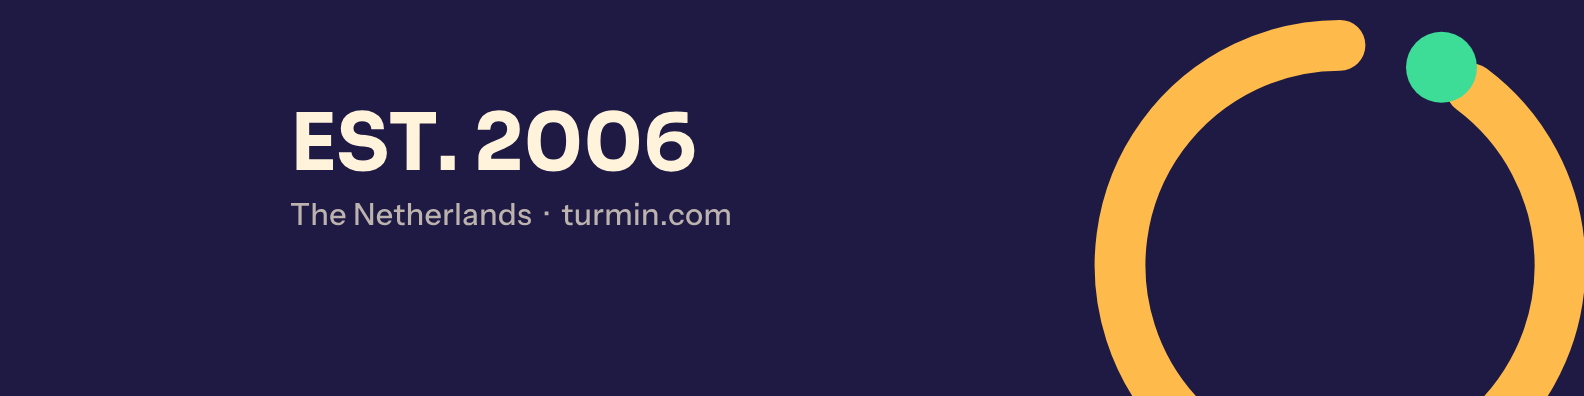
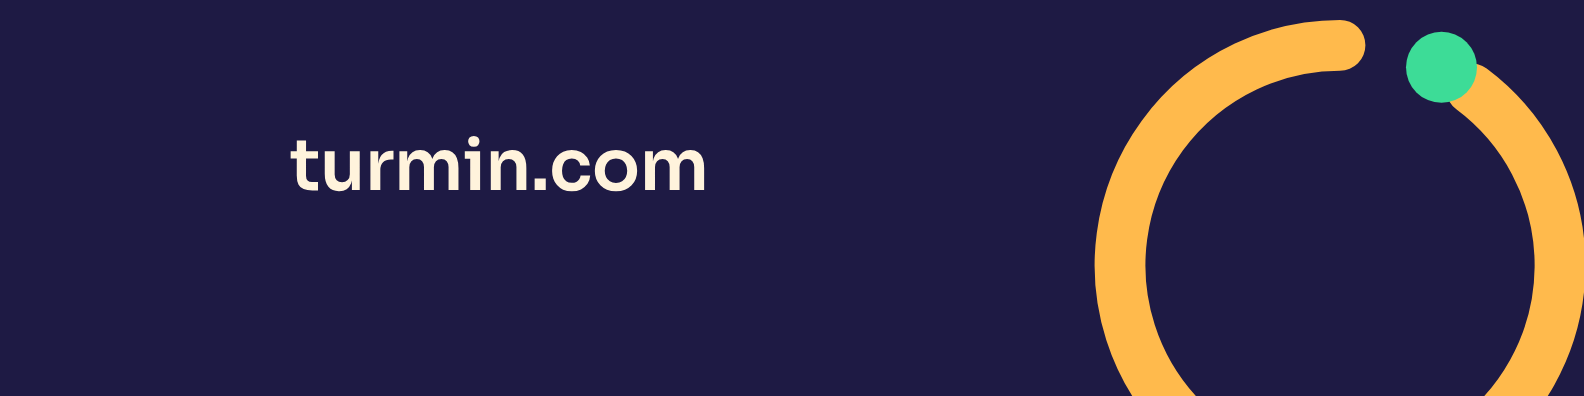
Branding: headers show only turmin.com
Drop EST. 2006 and The Netherlands from the X and LinkedIn headers;
the location has its own profile field and the year shouldn't stand out.

Claude-Session: https://claude.ai/code/session_01SeHSaRQeoQHHWWSzZtLKBf

Changed region(s): [[0.1856, 0.2727, 0.464, 0.4848], [0.1856, 0.5152, 0.464, 0.5758]]

diff --git a/branding/README.md b/branding/README.md
@@ -26,7 +26,7 @@ Telegram, WhatsApp and Discord apply. The green dot, the mark's outermost
 point, stays well inside the circle.
 
 Headers and profile banners sit next to the avatar, which already shows the
-logo, so they don't repeat it. The text is top-left, clear of the avatar in
+logo, so they don't repeat it: just turmin.com top-left, clear of the avatar in
 the bottom-left corner, with a large crop of the ring on the right. The link
 preview and the wallpaper are used on their own, so those carry the full logo.
 
